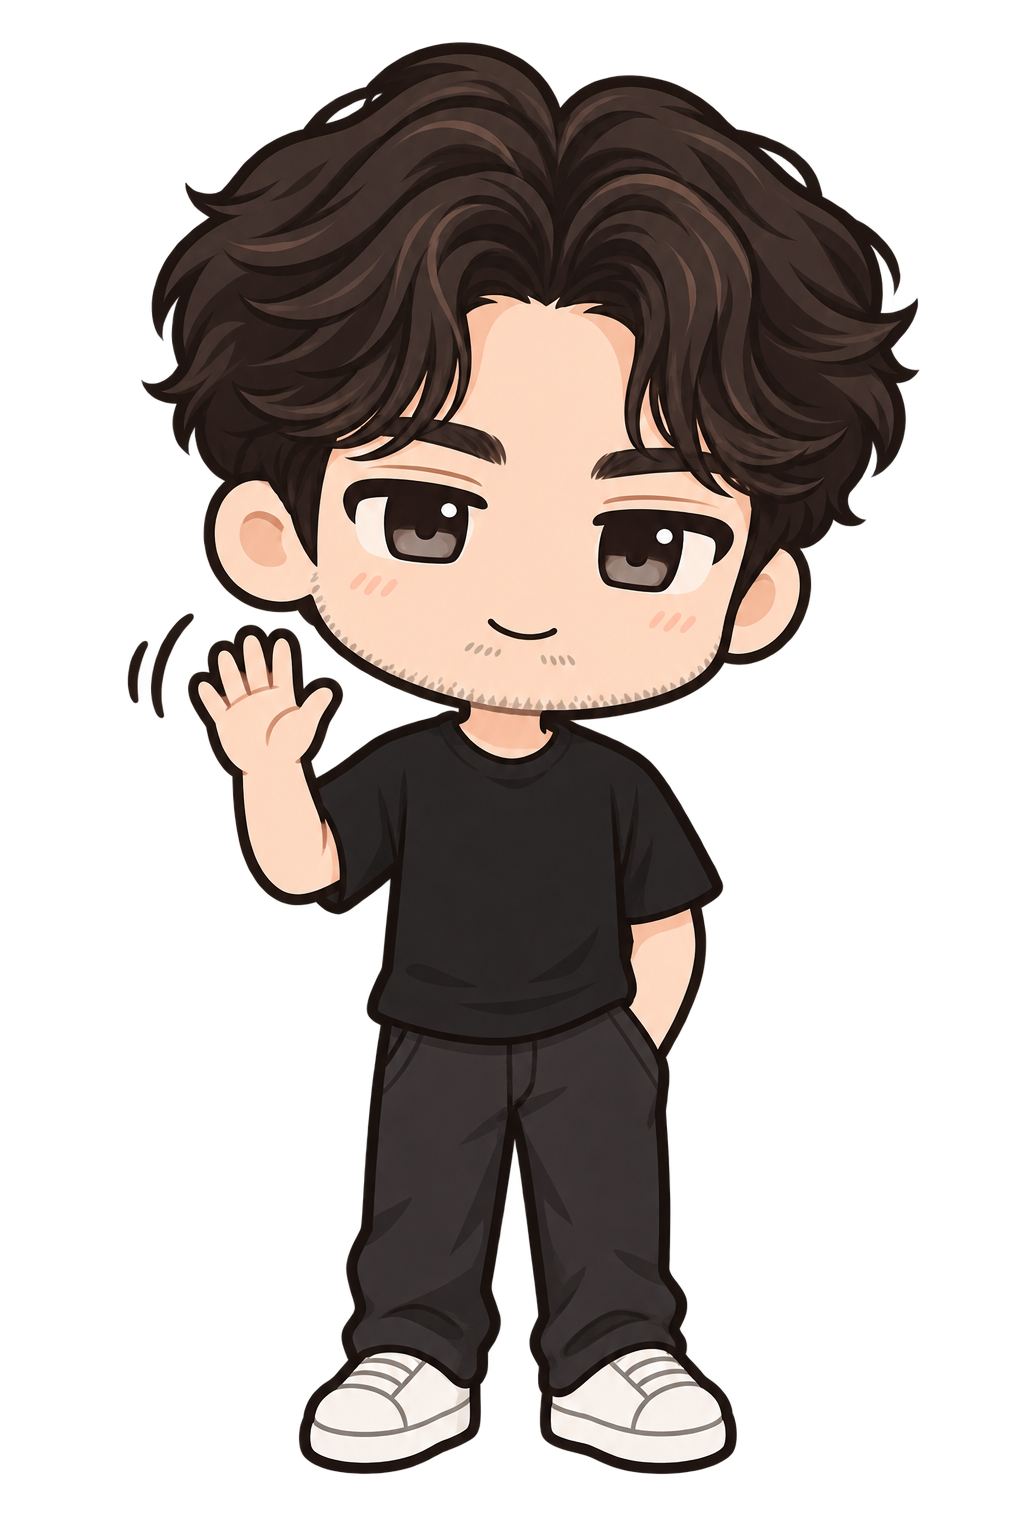
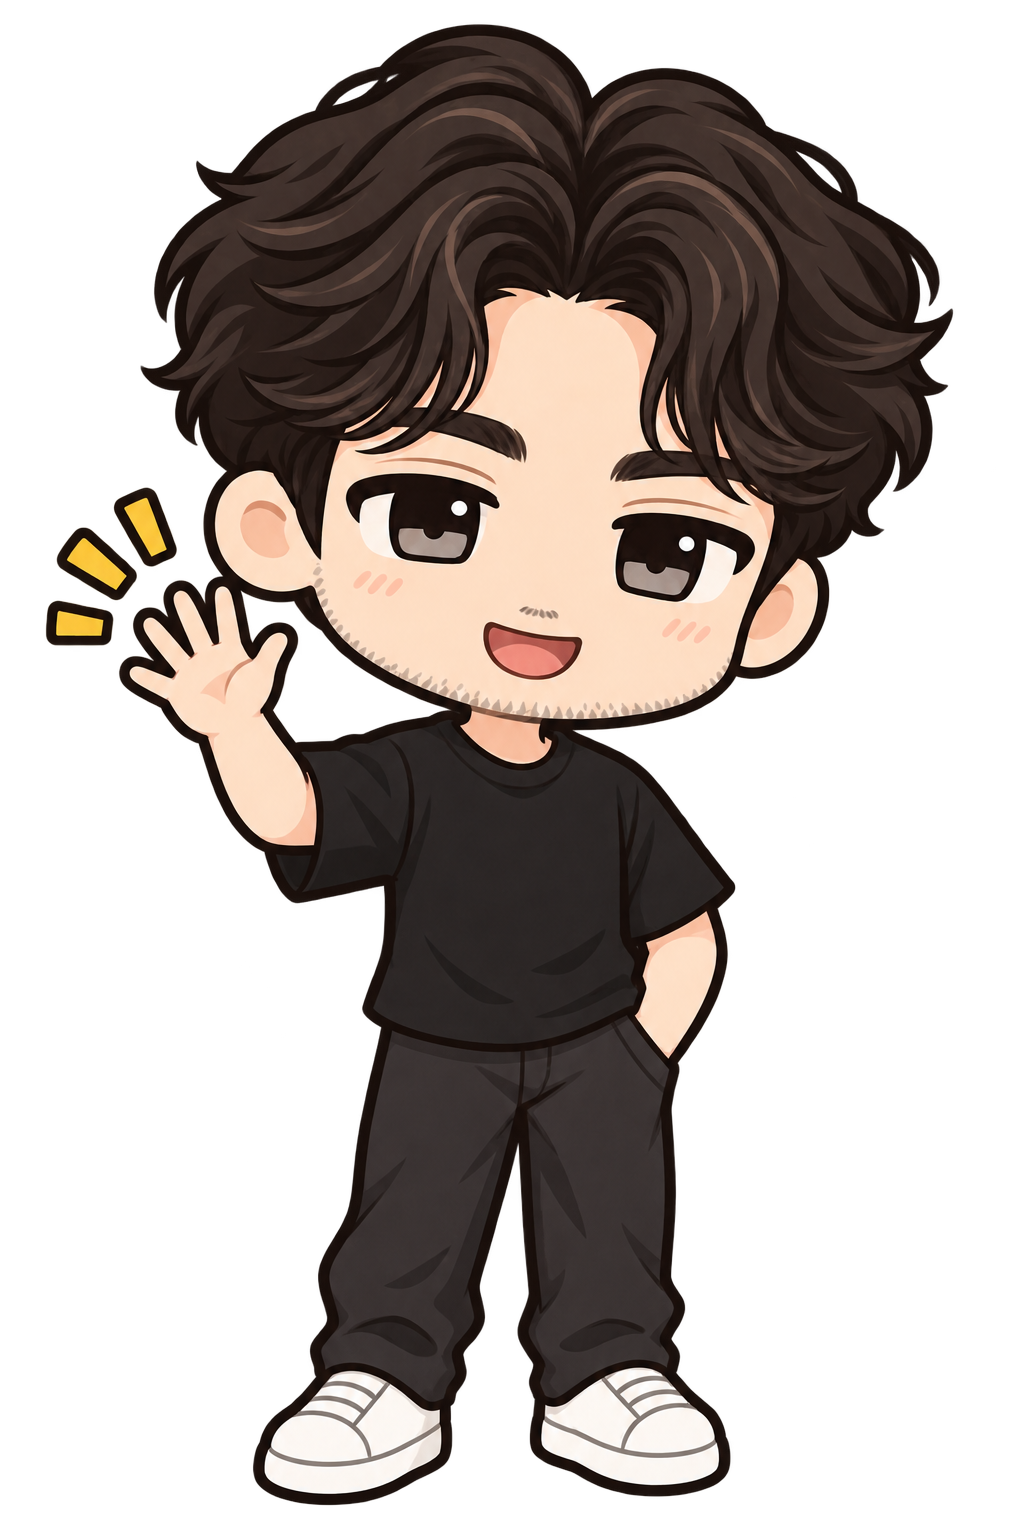
Refactor assistant drag handling & styles
Simplify and stabilize assistant dragging: replace RAF-based smoothing and reduced-motion complexity with direct positioning updates, lower DRAG_THRESHOLD to 2, centralize pointer move/up handlers in a useEffect, and improve click suppression and position persistence (sessionStorage). Add a dragging mascot image and update class/img selection to reflect dragging state. Adjust CSS: enforce mascot height, change transform origin, add drag wiggle animation, and remove unused offset variable. Also update several chatbot asset images.

diff --git a/src/components/PortfolioAssistant.jsx b/src/components/PortfolioAssistant.jsx
@@ -13,9 +13,10 @@ const characterImages = {
   talking: `${assistantAssetPath}talking.png`,
   happy: `${assistantAssetPath}happy.png`,
   bye: `${assistantAssetPath}bye.png`,
+  dragging: `${assistantAssetPath}dragging.png`,
 };
 
-const DRAG_THRESHOLD = 7;
+const DRAG_THRESHOLD = 2;
 const SAFE_MARGIN = 12;
 
 const clamp = (value, minimum, maximum) =>
@@ -28,15 +29,12 @@ function PortfolioAssistant({ language }) {
   const assistantRef = useRef(null);
   const mascotRef = useRef(null);
   const panelRef = useRef(null);
-  const animationFrame = useRef(0);
-  const prefersReducedMotion = useRef(false);
   const suppressClick = useRef(false);
   const drag = useRef({
     activePointerId: null,
-    current: { x: 0, y: 0, rotation: 0, scale: 1, offsetY: 0 },
-    target: { x: 0, y: 0, rotation: 0, scale: 1, offsetY: 0 },
+    x: 0,
+    y: 0,
     hasMoved: false,
-    initialized: false,
     lastPointerX: 0,
     startPointerX: 0,
     startPointerY: 0,
@@ -91,61 +89,21 @@ function PortfolioAssistant({ language }) {
     assistant.style.setProperty("--assistant-panel-offset-y", `${panelY - y}px`);
   };
 
-  const applyVisualState = (state) => {
+  const applyVisualState = ({ x, y, rotation = 0, scale = 1 }) => {
     const assistant = assistantRef.current;
     if (!assistant) {
       return;
     }
 
-    assistant.style.transform = `translate3d(${state.x.toFixed(2)}px, ${state.y.toFixed(2)}px, 0)`;
-    assistant.style.setProperty("--assistant-drag-rotation", `${state.rotation.toFixed(2)}deg`);
-    assistant.style.setProperty("--assistant-drag-scale", state.scale.toFixed(3));
-    assistant.style.setProperty("--assistant-drag-offset-y", `${state.offsetY.toFixed(2)}px`);
-    updatePanelPosition(state.x, state.y);
-  };
-
-  const animate = () => {
-    const state = drag.current;
-    if (!assistantRef.current) {
-      animationFrame.current = 0;
-      return;
-    }
-
-    const smoothing = prefersReducedMotion.current ? 1 : 0.18;
-    if (state.activePointerId === null) {
-      state.target.rotation *= prefersReducedMotion.current ? 0 : 0.8;
-      state.target.scale = 1;
-      state.target.offsetY = 0;
-    }
-
-    state.current.x += (state.target.x - state.current.x) * smoothing;
-    state.current.y += (state.target.y - state.current.y) * smoothing;
-    state.current.rotation += (state.target.rotation - state.current.rotation) * smoothing;
-    state.current.scale += (state.target.scale - state.current.scale) * smoothing;
-    state.current.offsetY += (state.target.offsetY - state.current.offsetY) * smoothing;
-
-    applyVisualState(state.current);
-
-    const isSettled = ["x", "y", "rotation", "scale", "offsetY"].every(
-      (key) => Math.abs(state.target[key] - state.current[key]) < 0.2,
-    );
-
-    if (state.activePointerId !== null || !isSettled) {
-      animationFrame.current = window.requestAnimationFrame(animate);
-    } else {
-      animationFrame.current = 0;
-    }
-  };
-
-  const requestAnimation = () => {
-    if (!animationFrame.current) {
-      animationFrame.current = window.requestAnimationFrame(animate);
-    }
+    assistant.style.transform = `translate3d(${x.toFixed(2)}px, ${y.toFixed(2)}px, 0)`;
+    assistant.style.setProperty("--assistant-drag-rotation", `${rotation.toFixed(2)}deg`);
+    assistant.style.setProperty("--assistant-drag-scale", scale.toFixed(3));
+    updatePanelPosition(x, y);
   };
 
   const savePosition = () => {
     try {
-      const { x, y } = drag.current.target;
+      const { x, y } = drag.current;
       sessionStorage.setItem("portfolio-assistant-position", JSON.stringify({ x, y }));
     } catch {
       // Position persistence is optional when browser storage is unavailable.
@@ -166,15 +124,6 @@ function PortfolioAssistant({ language }) {
   };
 
   useEffect(() => {
-    const mediaQuery = window.matchMedia("(prefers-reduced-motion: reduce)");
-    const updateMotionPreference = () => {
-      prefersReducedMotion.current = mediaQuery.matches;
-      requestAnimation();
-    };
-
-    updateMotionPreference();
-    mediaQuery.addEventListener("change", updateMotionPreference);
-
     let savedPosition;
     try {
       savedPosition = JSON.parse(sessionStorage.getItem("portfolio-assistant-position"));
@@ -191,19 +140,15 @@ function PortfolioAssistant({ language }) {
         ? savedPosition.y
         : window.innerHeight - mascotSize - 20,
     );
-    drag.current.current = { ...drag.current.current, ...initialPosition };
-    drag.current.target = { ...drag.current.target, ...initialPosition };
-    drag.current.initialized = true;
-    applyVisualState(drag.current.current);
-    requestAnimation();
+    drag.current.x = initialPosition.x;
+    drag.current.y = initialPosition.y;
+    applyVisualState(drag.current);
 
     const handleViewportChange = () => {
-      const currentPosition = clampPosition(drag.current.current.x, drag.current.current.y);
-      const targetPosition = clampPosition(drag.current.target.x, drag.current.target.y);
-      drag.current.current = { ...drag.current.current, ...currentPosition };
-      drag.current.target = { ...drag.current.target, ...targetPosition };
-      applyVisualState(drag.current.current);
-      requestAnimation();
+      const position = clampPosition(drag.current.x, drag.current.y);
+      drag.current.x = position.x;
+      drag.current.y = position.y;
+      applyVisualState(drag.current);
     };
 
     window.addEventListener("resize", handleViewportChange);
@@ -211,10 +156,8 @@ function PortfolioAssistant({ language }) {
 
     return () => {
       clearTimers();
-      mediaQuery.removeEventListener("change", updateMotionPreference);
       window.removeEventListener("resize", handleViewportChange);
       window.removeEventListener("orientationchange", handleViewportChange);
-      window.cancelAnimationFrame(animationFrame.current);
     };
   }, []);
 
@@ -251,8 +194,7 @@ function PortfolioAssistant({ language }) {
   }, [isOpen]);
 
   useLayoutEffect(() => {
-    applyVisualState(drag.current.current);
-    requestAnimation();
+    applyVisualState(drag.current);
   }, [isOpen]);
 
   const openAssistant = () => {
@@ -315,65 +257,69 @@ function PortfolioAssistant({ language }) {
     state.startPointerX = event.clientX;
     state.startPointerY = event.clientY;
     state.lastPointerX = event.clientX;
-    state.startX = state.current.x;
-    state.startY = state.current.y;
-    state.target.x = state.current.x;
-    state.target.y = state.current.y;
-    event.currentTarget.setPointerCapture(event.pointerId);
+    state.startX = state.x;
+    state.startY = state.y;
   };
 
-  const handlePointerMove = (event) => {
-    const state = drag.current;
-    if (state.activePointerId !== event.pointerId) {
-      return;
-    }
+  useEffect(() => {
+    const handlePointerMove = (event) => {
+      const state = drag.current;
+      if (state.activePointerId !== event.pointerId) {
+        return;
+      }
 
-    const offsetX = event.clientX - state.startPointerX;
-    const offsetY = event.clientY - state.startPointerY;
-    if (!state.hasMoved && Math.hypot(offsetX, offsetY) < DRAG_THRESHOLD) {
-      return;
-    }
+      const offsetX = event.clientX - state.startPointerX;
+      const offsetY = event.clientY - state.startPointerY;
+      if (!state.hasMoved && Math.hypot(offsetX, offsetY) < DRAG_THRESHOLD) {
+        return;
+      }
 
-    if (!state.hasMoved) {
-      state.hasMoved = true;
-      setIsDragging(true);
-    }
+      if (!state.hasMoved) {
+        state.hasMoved = true;
+        setIsDragging(true);
+      }
 
-    event.preventDefault();
-    const targetPosition = clampPosition(state.startX + offsetX, state.startY + offsetY);
-    const horizontalVelocity = event.clientX - state.lastPointerX;
-    state.target.x = targetPosition.x;
-    state.target.y = targetPosition.y;
-    state.target.rotation = prefersReducedMotion.current
-      ? 0
-      : clamp(horizontalVelocity * 0.45, -6, 6);
-    state.target.scale = prefersReducedMotion.current ? 1 : 0.975;
-    state.target.offsetY = prefersReducedMotion.current ? 0 : 3;
-    state.lastPointerX = event.clientX;
-    requestAnimation();
-  };
+      event.preventDefault();
+      const position = clampPosition(state.startX + offsetX, state.startY + offsetY);
+      const horizontalVelocity = event.clientX - state.lastPointerX;
+      state.x = position.x;
+      state.y = position.y;
+      state.lastPointerX = event.clientX;
+      applyVisualState({
+        ...state,
+        rotation: clamp(horizontalVelocity * 0.45, -5, 5),
+        scale: 0.97,
+      });
+    };
 
-  const finishPointerInteraction = (event) => {
-    const state = drag.current;
-    if (state.activePointerId !== event.pointerId) {
-      return;
-    }
+    const finishPointerInteraction = (event) => {
+      const state = drag.current;
+      if (state.activePointerId !== event.pointerId) {
+        return;
+      }
 
-    if (event.currentTarget.hasPointerCapture(event.pointerId)) {
-      event.currentTarget.releasePointerCapture(event.pointerId);
-    }
+      state.activePointerId = null;
+      if (state.hasMoved) {
+        suppressClick.current = true;
+        setIsDragging(false);
+        savePosition();
+        window.requestAnimationFrame(() => applyVisualState(drag.current));
+        window.setTimeout(() => {
+          suppressClick.current = false;
+        }, 0);
+      }
+    };
 
-    state.activePointerId = null;
-    state.target.rotation = 0;
-    state.target.scale = 1;
-    state.target.offsetY = 0;
-    if (state.hasMoved) {
-      suppressClick.current = true;
-      setIsDragging(false);
-      savePosition();
-      requestAnimation();
-    }
-  };
+    window.addEventListener("pointermove", handlePointerMove, { passive: false });
+    window.addEventListener("pointerup", finishPointerInteraction);
+    window.addEventListener("pointercancel", finishPointerInteraction);
+
+    return () => {
+      window.removeEventListener("pointermove", handlePointerMove);
+      window.removeEventListener("pointerup", finishPointerInteraction);
+      window.removeEventListener("pointercancel", finishPointerInteraction);
+    };
+  }, []);
 
   const handleMascotClick = () => {
     if (suppressClick.current) {
@@ -390,6 +336,7 @@ function PortfolioAssistant({ language }) {
 
   const isThinking = selectedQuestion && characterState === "thinking";
   const responseIsReady = selectedQuestion && !isThinking;
+  const displayedCharacterState = isDragging ? "dragging" : characterState;
   const orderedProjects = [...projects[language]].sort(
     (firstProject, secondProject) =>
       (firstProject.priority ?? 99) - (secondProject.priority ?? 99),
@@ -524,18 +471,15 @@ function PortfolioAssistant({ language }) {
       )}
       <button
         ref={mascotRef}
-        className={`assistant-mascot assistant-mascot-${characterState}`}
+        className={`assistant-mascot assistant-mascot-${displayedCharacterState}`}
         type="button"
         onClick={handleMascotClick}
         onPointerDown={handlePointerDown}
-        onPointerMove={handlePointerMove}
-        onPointerUp={finishPointerInteraction}
-        onPointerCancel={finishPointerInteraction}
         aria-label={isOpen ? copy.closeLabel : copy.ariaLabel}
         aria-expanded={isOpen}
       >
         <span className="assistant-mascot-body">
-          <img src={characterImages[characterState] ?? characterImages.idle} alt="" aria-hidden="true" />
+          <img src={characterImages[displayedCharacterState] ?? characterImages.idle} alt="" aria-hidden="true" />
         </span>
       </button>
     </aside>

diff --git a/src/styles.css b/src/styles.css
@@ -833,13 +833,13 @@ h3 {
   --assistant-mascot-size: 108px;
   --assistant-drag-rotation: 0deg;
   --assistant-drag-scale: 1;
-  --assistant-drag-offset-y: 0px;
   --assistant-panel-offset-x: 0px;
   --assistant-panel-offset-y: -360px;
 }
 
 .assistant-mascot {
   width: var(--assistant-mascot-size);
+  height: var(--assistant-mascot-size);
   min-width: 48px;
   min-height: 48px;
   padding: 0;
@@ -866,16 +866,17 @@ h3 {
 
 .assistant-mascot-body {
   display: block;
-  transform: translate3d(0, var(--assistant-drag-offset-y), 0)
-    rotate(var(--assistant-drag-rotation)) scale(var(--assistant-drag-scale));
-  transform-origin: 50% 18%;
+  width: 100%;
+  height: 100%;
+  transform: rotate(var(--assistant-drag-rotation)) scale(var(--assistant-drag-scale));
+  transform-origin: 50% 25%;
   transition: transform 220ms cubic-bezier(0.22, 0.72, 0.24, 1);
 }
 
 .assistant-mascot img {
   display: block;
   width: 100%;
-  aspect-ratio: 1;
+  height: 100%;
   object-fit: contain;
   animation: assistant-float 4.6s ease-in-out infinite;
 }
@@ -891,6 +892,11 @@ h3 {
 .assistant-dragging .assistant-mascot img {
   animation: none;
   transform: none;
+}
+
+.assistant-dragging .assistant-mascot-dragging img {
+  animation: assistant-drag-wiggle 260ms ease-in-out infinite alternate;
+  transform-origin: 50% 25%;
 }
 
 .assistant-mascot-bye img {
@@ -1140,6 +1146,11 @@ h3 {
   to { opacity: 0.5; transform: translateY(5px) scale(0.96); }
 }
 
+@keyframes assistant-drag-wiggle {
+  from { transform: translateY(-1px) rotate(-1.5deg); }
+  to { transform: translateY(2px) rotate(1.5deg); }
+}
+
 @keyframes assistant-panel-in {
   from { opacity: 0; transform: translateY(10px) scale(0.98); }
   to { opacity: 1; transform: translateY(0) scale(1); }
@@ -1163,6 +1174,7 @@ h3 {
 
   .assistant-mascot {
     width: var(--assistant-mascot-size);
+    height: var(--assistant-mascot-size);
   }
 
   .assistant-panel {
